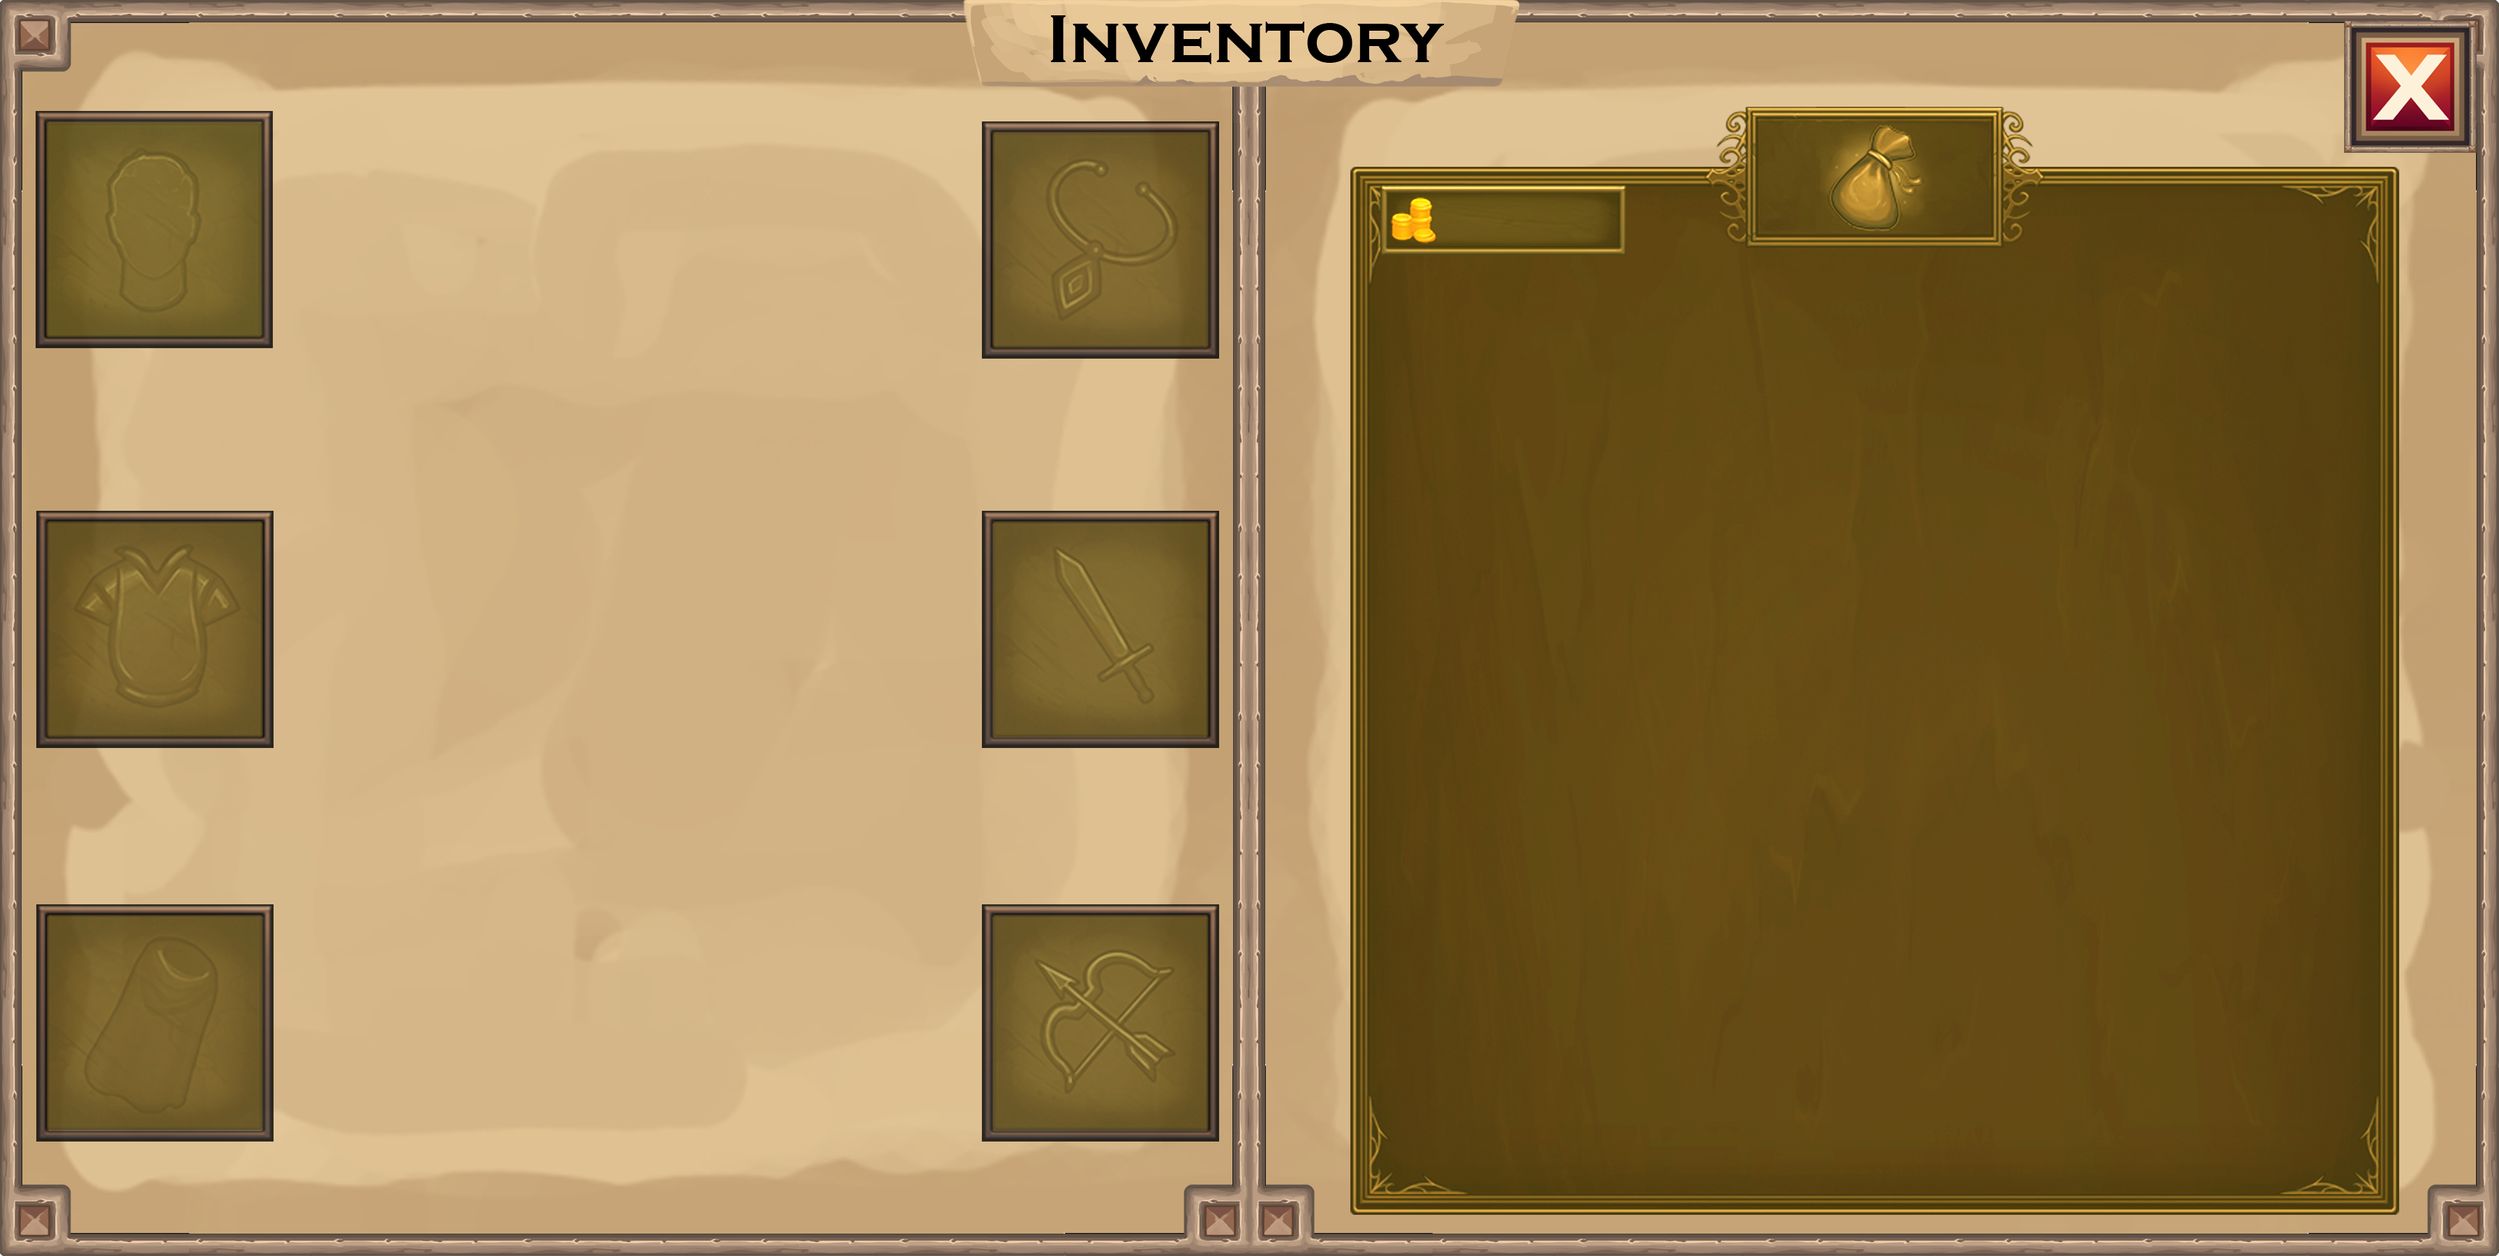
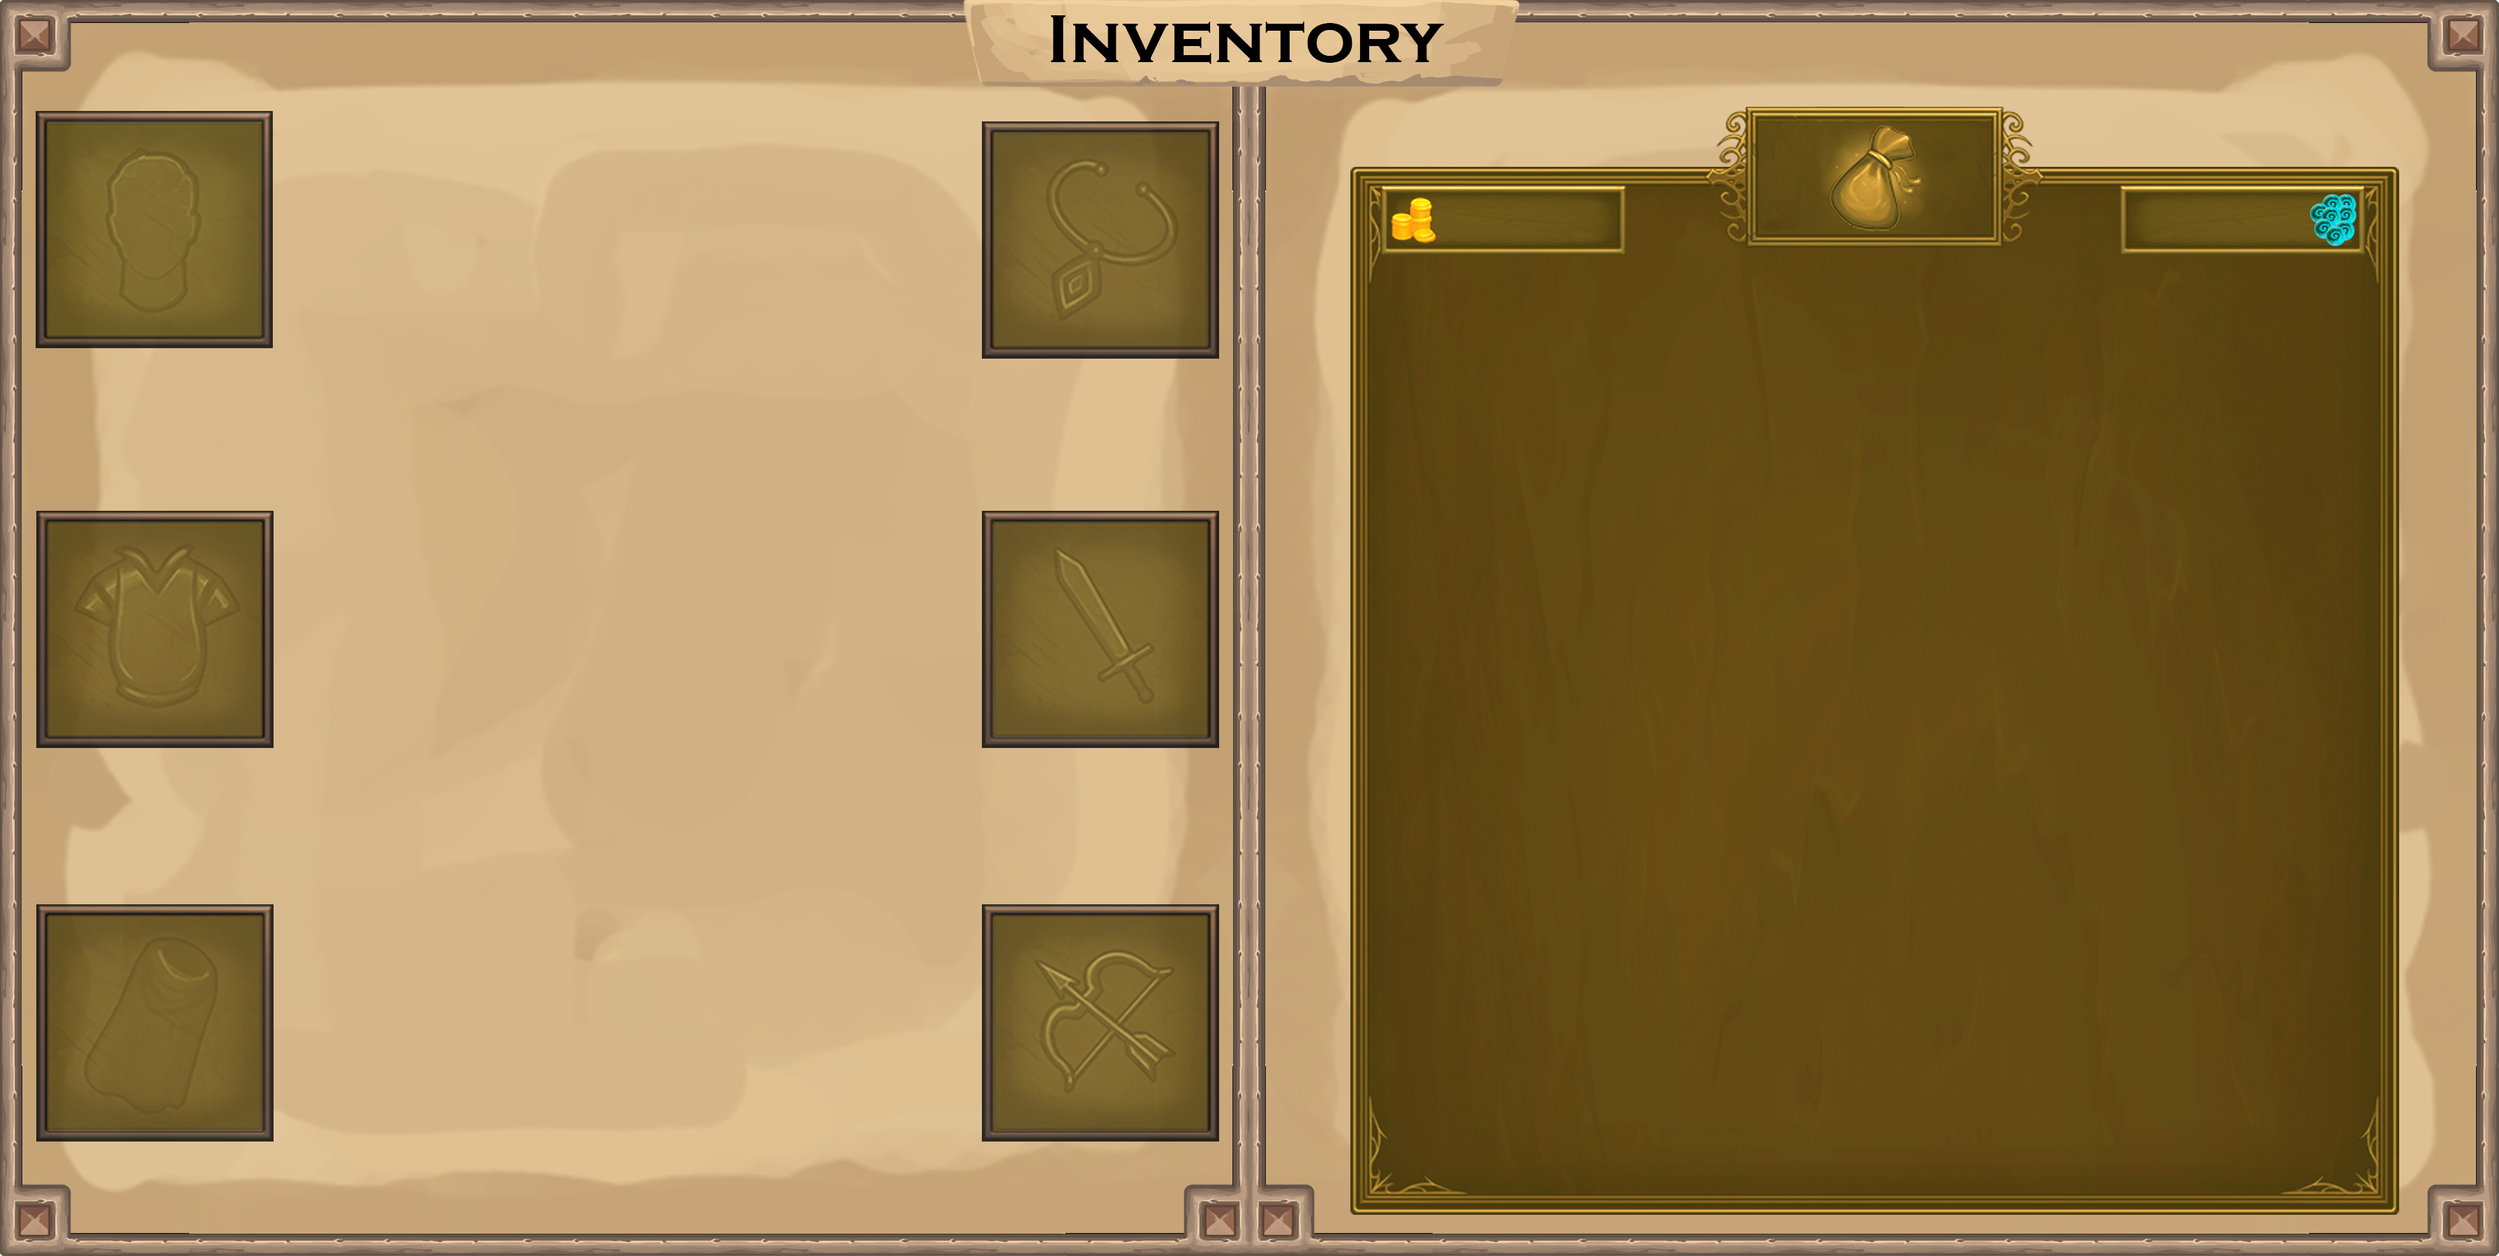
quest complete

Changed region(s): [[0.9299, 0.0, 0.9919, 0.1244], [0.8679, 0.1244, 0.9609, 0.2178]]

diff --git a/src/main/app/src/modules/Dungeon.js b/src/main/app/src/modules/Dungeon.js
@@ -13,6 +13,7 @@ class Dungeon extends React.Component {
     super(props);
 
     this.currentRoom = null;
+    this.abilityAnimationKey = 0;
     this.pushMonstersByPosition = this.pushMonstersByPosition.bind(this);
   }
 
@@ -22,10 +23,7 @@ class Dungeon extends React.Component {
 
     if(((this.currentRoom.stairsPrevious || (this.currentRoom.stairsNext && (this.props.dungeon.currentFloor + 1 < this.props.dungeon.floorCount))) && (!this.currentRoom.monsters || this.currentRoom.monsters.length === 0))){
       components.push(
-        <FadeIn 
-          key='s' 
-          in
-        >
+        <FadeIn in key='s'>
           <img src={this.props.props.images["dungeon"+this.props.dungeon.theme+"Stairs"]} className="dungeon-stairs hover-saturate" alt="Stairs" onClick={() => this.props.props.appState("stairs", this.currentRoom.stairsPrevious)}/>
         </FadeIn>
       );
@@ -34,23 +32,23 @@ class Dungeon extends React.Component {
     if(!this.props.props.combat && this.currentRoom.lootCache && this.currentRoom.lootCache.length){
       if((this.currentRoom.stairsPrevious || (this.currentRoom.stairsNext && (this.props.dungeon.currentFloor + 1 < this.props.dungeon.floorCount)))){
         components.push(        
-          <FadeIn 
-            key='c' 
-            in
-          >
+          <FadeIn in key='c'>
             <img src={this.props.props.images.chest} className="dungeon-chest-left hover-saturate" alt="chest" onClick={() => this.props.props.appState("menu", "loot")}/>
-          </FadeIn>);
+          </FadeIn>
+        );
       } else {
         components.push(        
-          <FadeIn 
-            key='c' 
-            in
-          >
+          <FadeIn in key='c'>
             <img src={this.props.props.images.chest} className="dungeon-chest hover-saturate" alt="chest" onClick={() => this.props.props.appState("menu", "loot")}/>
-          </FadeIn>);
+          </FadeIn>
+        );
       }
       if(this.props.props.menu === "loot"){
-        components.push(<LootMenu props={this.props.props} room={this.currentRoom}/>);
+        components.push(
+          <Fade in key='l'>
+            <LootMenu props={this.props.props} room={this.currentRoom}/>
+          </Fade>
+        );
       }
     } 
     if(this.props.props.combat){
@@ -69,26 +67,49 @@ class Dungeon extends React.Component {
       components.push(<Combat key='c' props={this.props.props} monsters={this.currentRoom.monsters}/>)
 
       if(this.props.props.pc.buffs && this.props.props.pc.buffs.length > 0){
-        components.push(<BuffBar props={this.props.props} entity={this.props.props.pc} type={"buffs"}/>);
+        components.push(
+          <Fade in key="pc-buffs">
+            <BuffBar props={this.props.props} entity={this.props.props.pc} type={"buffs"}/>
+          </Fade>
+        );
       }
       if(this.props.props.pc.debuffs && this.props.props.pc.debuffs.length > 0){
-        components.push(<BuffBar props={this.props.props} entity={this.props.props.pc} type={"debuffs"}/>);
+        components.push(
+          <Fade in key="pc-debuffs">
+            <BuffBar props={this.props.props} entity={this.props.props.pc} type={"debuffs"}/>
+          </Fade>
+        );
       }
       for(let monster of this.currentRoom.monsters) {
         if(monster.buffs && monster.buffs.length > 0){
-          components.push(<BuffBar props={this.props.props} entity={monster} type={"buffs"}/>);
+          components.push(
+            <Fade in key={monster.position+"-buffs"}>
+              <BuffBar props={this.props.props} entity={monster} type={"buffs"}/>
+            </Fade>
+          );
         }
         if(monster.debuffs && monster.debuffs.length > 0){
-          components.push(<BuffBar props={this.props.props} entity={monster} type={"debuffs"}/>);
+          components.push(
+            <Fade in key={monster.position+"pc-debuffs"}>
+              <BuffBar props={this.props.props} entity={monster} type={"debuffs"}/>
+            </Fade>
+          );
         }
       }
+
       if(this.props.props.renderAbilityAnimation){
-        components.push(<AbilityAnimation props={this.props.props} key='n'/>);
+        components.push(<AbilityAnimation props={this.props.props} key={"aa" + this.abilityAnimationKey++}/>);
       }   
     }
-    if(this.props.props.questComplete){
-      components.push(<QuestMenu props={this.props.props} reward={this.props.dungeon.reward} rewardItems={this.props.props.dungeon.rewardCache}/>);
-    } 
+    
+    if(this.props.dungeon.questCompleted && !this.props.dungeon.rewardClaimed){
+      components.push(
+        <Fade in key='q'>
+          <QuestMenu props={this.props.props} reward={this.props.dungeon.reward} rewardItems={this.props.dungeon.rewardCache}/>
+       </Fade>
+      );
+    }
+
     return (
       <TransitionGroup>
         {components}

diff --git a/src/main/app/src/App.js b/src/main/app/src/App.js
@@ -347,11 +347,13 @@ class App extends React.Component {
       switch(method){
         case "quest":
           pc = {...this.state.pc};
+          dungeon = {...this.state.dungeon};
           pc.currency += this.state.dungeon.reward;
           pc.experience += Math.floor(this.state.dungeon.reward*2.5);
           pc.inventory[this.state.dungeon.rewardCache[key].id] = 1;
           pc.inventoryCache.push(this.state.dungeon.rewardCache[key]);
-          this.save(["pc"], [pc], {pc:pc, questComplete: false});
+          dungeon.rewardClaimed = true;
+          this.save(["pc", "dungeon"], [pc, dungeon], {pc:pc, dungeon: dungeon});
           break;
         case "menu":
           this.setStateCustom({menu: key === this.state.menu ? null : key});
@@ -415,14 +417,15 @@ class App extends React.Component {
               break;
           } else {
             pc = {...this.state.pc}
+            dungeon = {...this.state.dungeon}
             this.pcServices.clearBuffs(pc);
             this.pcServices.resetTempStats(pc);
             this.pcServices.updateStats(pc);
             this.combatEngine = null;
 
-            let questComplete = this.checkQuest();
+            dungeon.questCompleted = this.checkQuest();
 
-            this.save(["pc", "dungeon"], [this.state.pc, this.state.dungeon], {pc: pc, combat: false, questComplete: questComplete, position: 0});
+            this.save(["pc", "dungeon"], [pc, dungeon], {pc: pc, dungeon: dungeon, combat: false, position: 0});
             break;
           }
           
@@ -433,7 +436,7 @@ class App extends React.Component {
             if(dungeon.currentFloor === 0){
               pc = {...this.state.pc};
               pc.location = "Town";
-              this.save(["pc", "dungeon"], [this.state.pc, this.state.dungeon], {dungeon: dungeon, pc:pc, scene:"Default"});
+              this.save(["pc", "dungeon"], [pc, dungeon], {dungeon: dungeon, pc:pc, scene:"Default"});
             } else {
               dungeon.currentFloor -= 1;
               dungeon.currentRoom = dungeon.floors[dungeon.currentFloor].rooms.length-1;
@@ -532,6 +535,9 @@ class App extends React.Component {
             } else {
               if(key.name === "Gold") {
                 pc.currency += count;
+              }
+              if(key.name === "Soul") {
+                pc.metacurrency += count;
               }
             }
 

diff --git a/src/main/app/src/styles/masterAppStyle.css b/src/main/app/src/styles/masterAppStyle.css
@@ -249,21 +249,21 @@
 				font-size: 200%;
 				text-align: right;
 			}
-			.quest-item-1{
+			.quest-item-0 {
 				position: absolute;
 				left: 7.7222%;
 				top: 61.4444%;
 				width: 24.4444%;
 				height: 24.4444%;
 			}
-			.quest-item-2 {
+			.quest-item-1 {
 				position: absolute;
 				left: 37.7222%;
 				top: 61.4444%;
 				width: 24.4444%;
 				height: 24.4444%;
 			}
-			.quest-item-3 {
+			.quest-item-2 {
 				position: absolute;
 				left: 67.3333%;
 				top: 61.4444%;
@@ -426,13 +426,22 @@
 				left: 25.1406%;
 				top: 85.2777%;
 			}
-			.gold-count{
+			.gold-count {
 				position: absolute;
 				left: 57.5258%;
 				top: 15.3889%;
 				width: 7.2605%;
 				height: 4.2778%;
 				font-size: 75%;
+			}
+			.soul-count {
+				position: absolute;
+				left: 85.088%;
+				top: 15.3889%;
+				width: 7.2605%;
+				height: 4.2778%;
+				font-size: 75%;
+				text-align: right;
 			}
 			.unspent-points {
 				position: absolute;
@@ -862,11 +871,14 @@
 				color:rgb(0, 206, 10);
 			}
 			.popup {
+				position: absolute;
+				top:25%;
+				left: 38.095%;
 				height: 50%;
 				width: 23.81%;
 				opacity: 0.5;
 			}
-			.popup > img {
+			.popup img {
 				height: 100%;
 				width: auto;
 			}

diff --git a/src/main/app/src/modules/AbilityAnimation.js b/src/main/app/src/modules/AbilityAnimation.js
@@ -13,20 +13,15 @@ class AbilityAnimation extends React.Component {
 
   render(){
     return(
-      <div className="popup v-h-centered nopointer" key={this.props.key}>
-        {
-          this.props.props.renderAbilityAnimation && (
-            <Pulse 
-              in={this.state.in}
-              key="ability-animation"
-              onEntered={() => setTimeout(() => this.setState({in: false}), 250)}
-              onExited={() => setTimeout(() => {this.props.props.appState("pcCombat", this.ability)}, 150)}
-            >
-              <img src={this.props.props.abilities[camelCase(this.props.props.pc.abilities[this.ability].name)]} alt="ability"/>
-            </Pulse>
-          )
-        }
-      </div>
+      <Pulse 
+        in={this.state.in}
+        key="n"
+        className="popup nopointer"
+        onEntered={() => setTimeout(() => this.setState({in: false}), 250)}
+        onExited={() => setTimeout(() => this.props.props.appState("pcCombat", this.ability), 150)}
+      >
+        <img src={this.props.props.abilities[camelCase(this.props.props.pc.abilities[this.ability].name)]} alt="ability"/>
+      </Pulse>
     );
   }
 

diff --git a/src/main/app/src/modules/Ui.js b/src/main/app/src/modules/Ui.js
@@ -4,7 +4,6 @@ import InventoryMenu from "./InventoryMenu";
 import SkillTooltip from "./SkillTooltip";
 import Minimap from "./Minimap";
 import {camelCase} from "./GeneralUtilities";
-import {TransitionGroup} from 'react-transition-group';
 import FadeUp from "./FadeUp";
 
 class Ui extends React.Component {
@@ -23,11 +22,10 @@ class Ui extends React.Component {
     } else {
       this.buttonAttack = this.props.props.images.buttonAttackWarrior;
     }
-
+    
     this.Skill = (props) => {
       let className = "gray-100";
       let onClick = null;
-
       if(this.props.props.pc.level >= this.props.props.pc.abilities[props.number].level){
         if(this.props.props.combat && !this.props.props.position){
           if(this.props.props.pc.currentEnergy >= this.props.props.pc.abilities[props.number].cost){

diff --git a/src/main/app/src/modules/LootMenu.js b/src/main/app/src/modules/LootMenu.js
@@ -1,6 +1,5 @@
 import React from "react";
 import Inventory from "./Inventory";
-import Fade from "./Fade";
 
 class LootMenu extends React.Component {
 
@@ -10,13 +9,13 @@ class LootMenu extends React.Component {
 
   render(){
       return(
-        <Fade in key='l' className="loot-menu">
+        <div className="loot-menu">
           <img className="background" src={this.props.props.images.lootMenu} alt="Loot Screen"/>
           <input className="btn-close-small hover-saturate" type="image" src={this.props.props.images.buttonClose} alt="Close" onClick={() => this.props.props.appState("menu", "loot")}/>
           <div className="loot-box">
             <Inventory props={this.props.props} type="loot" room={this.props.room}/>
           </div>
-        </Fade>
+        </div>
       )  
     }
 }

diff --git a/src/main/app/src/modules/Inventory.js b/src/main/app/src/modules/Inventory.js
@@ -107,10 +107,18 @@ class Inventory extends React.Component {
 
     if (this.props.type === "inventory"){
       if(item.type === "potion"){
-        if(this.inventory[item.id] > 1){
-          this.pushUsable(item, count);
+        if(this.props.props.position){
+          if(this.inventory[item.id] > 1){
+            this.pushUnusable(item, count);
+          } else {
+            this.pushUnusable(item, this.empty);
+          }
         } else {
-          this.pushUsable(item, this.empty);
+          if(this.inventory[item.id] > 1){
+            this.pushUsable(item, count);
+          } else {
+            this.pushUsable(item, this.empty);
+          }
         }
       }
       if(item.type === "consumable"){

diff --git a/src/main/app/src/modules/InventoryMenu.js b/src/main/app/src/modules/InventoryMenu.js
@@ -29,6 +29,7 @@ class InventoryMenu extends React.Component {
         <img className={this.silhouetteClass} src={this.silhouette} alt={this.props.props.pc.characterClass}/>
         <input className="btn-close hover-saturate" type="image" src={this.props.props.images.buttonClose} alt="Close" onClick={() => this.props.props.appState("menu", "inventory")}/>
         <p className="gold-count">{this.props.props.pc.currency}</p>
+        <p className="soul-count">{this.props.props.pc.metacurrency}</p>
         <Equipped props={this.props.props} slot="Head"/>
         <Equipped props={this.props.props} slot="Body"/>
         <Equipped props={this.props.props} slot="Back"/>

diff --git a/src/main/app/src/modules/QuestMenu.js b/src/main/app/src/modules/QuestMenu.js
@@ -24,14 +24,14 @@ class LootMenu extends React.Component {
         );
       }
       return(
-        <Fade in key='q' className="quest-menu">
+        <div className="quest-menu">
           <img className="background" src={this.props.props.images.questMenu} alt="Quest Screen"/>
           <p className="quest-gold">{this.props.reward}</p>
           <p className="quest-exp">{Math.floor(this.props.reward*2.5)}</p>
           <QuestItem i={0}/>
           <QuestItem i={1}/>
           <QuestItem i={2}/>
-        </Fade>
+        </div>
       )  
     }
 }

diff --git a/src/main/app/src/modules/AbilityServices.js b/src/main/app/src/modules/AbilityServices.js
@@ -15,6 +15,10 @@ class AbilityServices {
           let damage = this.calcDamage(this.calcBase(ability, pc.baseDamage), pc, monster, crit);
           crit = damage ? crit : false;
 
+          if(ability.targetFlags && ability.targetFlags.stun && !damage){
+            monster.flags.stun = 0;
+          }
+
           monster.currentHealth = (monster.currentHealth - damage) >= 0 ? (monster.currentHealth - damage) : 0;
           combatUpdates.push(new CombatUpdate(ability.type, ability.name, monster.position, "pc", damage, crit));
         });

diff --git a/src/main/app/src/images/index.js b/src/main/app/src/images/index.js
@@ -61,6 +61,7 @@ export {default as dungeonHealth} from './dungeon-health.png'
 export {default as dungeonLoot} from './dungeon-loot.png'
 export {default as dungeonMiniboss} from './dungeon-Miniboss.png'
 export {default as dungeonPanel} from './dungeon-panel.png'
+export {default as dungeonPanelSlash} from './dungeon-panel-slash.png'
 export {default as dungeonPortal} from './dungeon-portal.png'
 export {default as dungeonTraps} from './dungeon-traps.png'
 export {default as eat} from './eat.png'

diff --git a/src/main/app/src/modules/BuffBar.js b/src/main/app/src/modules/BuffBar.js
@@ -47,7 +47,6 @@ class BuffBar extends React.Component {
         <Fade
           key={key++} 
           in
-          id={this.props.entity.position + "-" + this.props.type}
         >
           <img className="buff-icon" src={this.props.props.abilities[buff.name]} title={statsLine + duration} alt="buff"/>
         </Fade>
